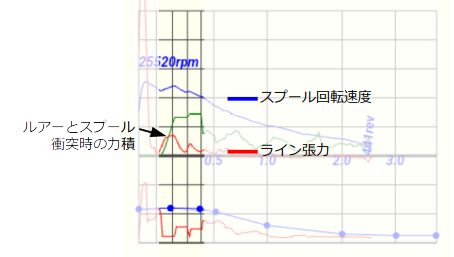
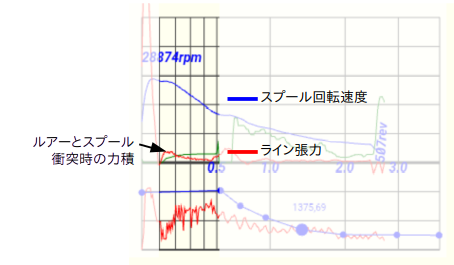
Added Mode-3 explanation

Changed region(s): [[0.0617, 0.0, 0.9868, 0.965]]

diff --git a/libraries/ServoCAST/src/Param.cpp b/libraries/ServoCAST/src/Param.cpp
@@ -1,0 +1,72 @@
+#include "Arduino.h"
+
+#ifdef TARGET_NRF52840
+#include <mbed.h>
+#include <rtos.h>
+#define NANO33BLE_FS_SIZE_KB        64
+#define FORCE_REFORMAT              false
+#include <FS_Nano33BLE.h>
+#endif
+
+#ifdef _RENESAS_RA_
+
+#endif
+
+#include <SetTimeout.h>
+#include "Param.h"
+
+namespace param{
+  uint8_t *data;
+  static uint16_t data_len;
+#ifdef TARGET_NRF52840
+  FileSystem_MBED *myFS=NULL;
+  static char *path=MBED_FS_FILE_PREFIX "/param.bin";
+  static void task_load(){
+    FILE *file = fopen(path, "r");
+    if(file){
+      int num = fread(data, 1, data_len, file);
+      fclose(file);
+      Serial.println("Param load done");
+    }
+    else{
+      Serial.println("Param load failed");
+    }
+  }
+  static void task_dump(){
+    FILE *file = fopen(path, "w");
+    if(file){
+      int num = fwrite(data, 1, data_len, file);
+      fclose(file);
+      Serial.println("Param dump done");
+    }
+    else{
+      Serial.println("Param dump failed");
+    }
+  }
+  static void task_init(){
+    if(myFS==NULL){
+      myFS = new FileSystem_MBED();
+      if (!myFS->init()){
+        Serial.println("FS Mount Failed");
+        return;
+      }
+    }
+  }
+#endif
+  int length(){ return data_len;}
+  void load(){
+    setTimeout.set(task_load,0);
+  }
+  void dump(){
+    setTimeout.set(task_dump,0);
+  }
+  void run(uint8_t *param,int len){
+    data=param;
+    data_len=len;
+    uint16_t start=millis();
+    task_init();
+    task_load();
+    Serial.print("param init done ");
+    Serial.println(millis()-start);
+  }
+}

diff --git a/design_sheet/README.md b/design_sheet/README.md
@@ -29,14 +29,14 @@
 <tr><th>区間<td>経過時間<0.1sec<br>スパン<sup>(1)</sup><2.0m<td>経過時間<0.4sec<br>スパン<10.0m<td>経過時間>0.4sec<br>スパン>10.0m</tr>
 <tr><th>説明<td>キャスト力がライン張力を発生し、スプールを加速している状態。
 <td>ルアーとスプールがラインを介した連成系となる状態。初期状態で両者の速度は必ずしも一致していない。またスパン小のため懸垂線による張力安定効果も期待できない。
-<td>スパンが大きくなり、懸垂線による張力安定が効いている。
+<td>スパンが大きくなり、懸垂線による張力安定が効いているが、張力値は小さくゼロ点ずれの影響が大。
 </tr>
-<tr><th>方針<td>ノーブレーキ(力弱)<br>スプール速度オーバーラン<sup>(2)</sup>防止(力強)<td>高めの張力目標値<br>高応答の制御<td>張力目標値ほぼゼロ<br>張力の強さは振動強度で表す</tr>
+<tr><th>方針<td>ノーブレーキ(力弱)<br>スプール速度オーバーラン<sup>(2)</sup>防止(力強)<td>高めの張力目標値<br>高応答の制御<td>ディザリングに対する張力変動を『張り度』と定義し、張り度をPI制御する</tr>
 </table>
 
 <dl>
 <dt> 注2)スプール速度オーバラン</dt>
-<dd>スプール速度がルアー速度を上回ること。初速の低い軽いキャストでは、ルアー速度とスプール速度の一致状態が保たれるが、初速を上げようとすると、力を込めるとスプール速度がルアー速度を上回る。このままの状態で②状態に移ると、即時にバックラッシュやライン切れが起きる。
+<dd>スプール速度がルアー速度を上回ること。初速の低い軽いキャストでは、ルアー速度とスプール速度の一致状態が保たれるが、初速を上げようと力を込めると、スプール速度がルアー速度を上回る。このままの状態で②状態に移ると、即時にバックラッシュやライン切れが起きる。
 </dl>
 
 ## 詳細設計
@@ -112,17 +112,24 @@ S_{Adap}=k_{Adap} \Sigma \beta_{\sigma>0} \Delta t
 \end{cases}
 $$
 
+3. 状態③の初期デューティ決定  
+状態②は時間切りにて終了し、状態③に遷移する。遷移時には、$S_{Adap}$から、テーブル参照にて状態③の初期デューティを決定する。
+
 ### 状態③スパン大  
 #### 概要
-状態②での制御が成功していれば、適度なライン弛みが保たれている。この状態では、微修正を行うのみであるが、張力がほぼ０のため張力そのものでは誤差の影響が大きい。これを解消するため、張力の大きさをその振動強度によって表す。
+状態②での制御が成功していれば、適度なライン弛みが保たれており、またデューティも決定されている。このため、その後は微調整を行うのみであるが、張力がほぼ０の領域での制御となるため、ゼロ点ズレなど誤差の影響が大である。このため「ライン張度」という評価基準を導入する。
 <img src="fig05.png" />
 
 #### 要求実現  
-1. デューティ初期値  
-2. デューティ補正  
-BangBang制御(３値)
+1. PI-D制御  
+PI制御にディザリング(Dithering)を組み合わせた、PI-D制御にてデューティの微調整を行う。PI制御のフィードバックは、張力ではなく後述の「ライン張度」とする。
+2. ディザリング  
+ディザリングとは信号に意図的にノイズ(ディザー)を加えることであり、本件ではブレーキデューティに一定周期(10Hz)の三角波ディザーを加えます。ディザーの目的は、ディザーに対する張力応答を観察するためであり、この張力応答をライン張度として数値化する。
+<img src="fig06.png" />
+3. ライン張度  
+上図に示すように、振幅Aのディザーをブレーキに加えたときの張力応答は、張力が高いときには振幅B<sub>1</sub>、張力が低いときには振幅B<sub>2</sub>、となり同じディザー振幅に対して応答振幅が大きく変わる。この特性を利用してラインの張り具合を数値化したものが、「ライン張度」である。具体的には、ディザー周波数付近の張力のスペクトル強度である。
+4. 張力スペクトル  
+特定の周波数の強度を、極力少ないサンプリングウインドウから取り出すために、高次フィルターを導入した。具体的な数値としては、0.2秒のウインドウに対して、5次フィルタを適用し、10Hz(0.1秒周期)以上の強度を算出している。
+<img src="fig07.png" width="50%"/>
 
-#### 張力振動強度フィルタ  
-このフィルタの機能は、特定の周波数範囲の張力振動を数値化することである。周波数上限はオブザーバによって制限されるので、このフィルタはローカット機能のみである。
-##### 高次式最適化によるローカット  
-このフィルタのデータソースは、サンプリング区間(0.2〜0.3秒)の張力データである。
+
